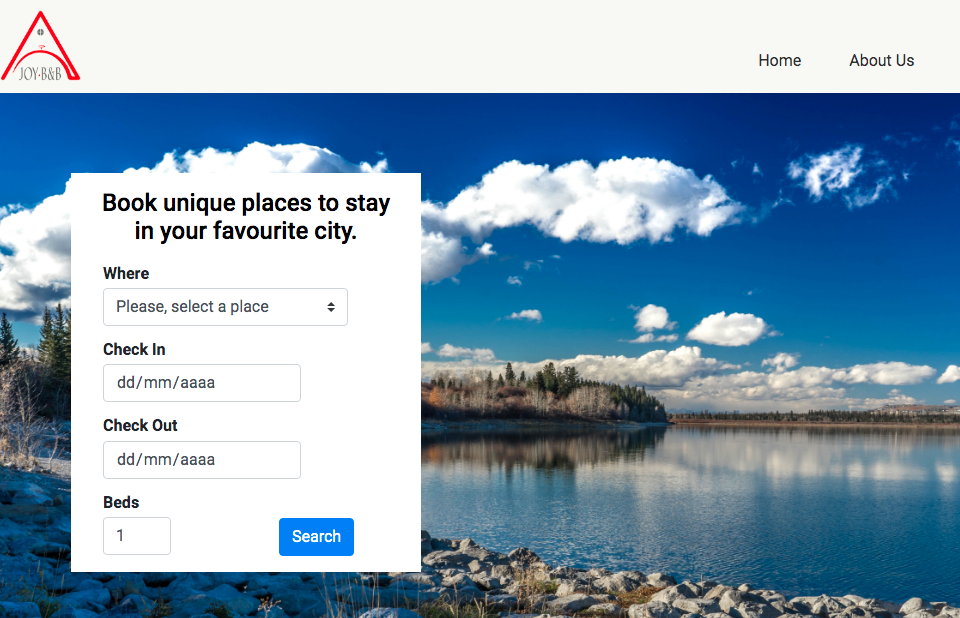
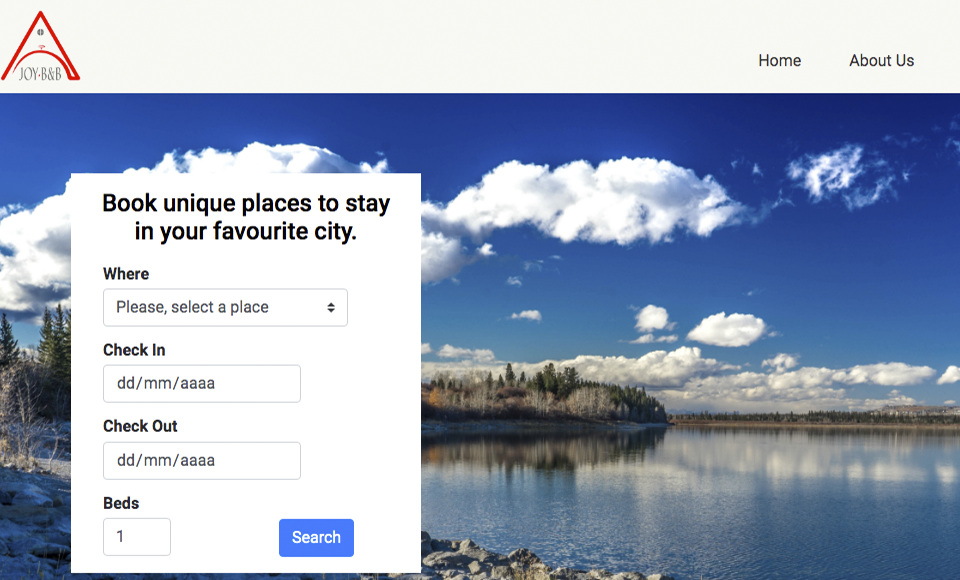
first commit

diff --git a/public/css/design.css b/public/css/design.css
@@ -10,28 +10,26 @@
 .grid {
     background: white;
     flex: none;
-    width: 19.2%;
+    width: 19.6%;
     display: flex;
     justify-content: center;
-    margin-bottom: 1%;
+    margin-bottom: 0.5%;
     color: white;
-    background-image: url(/img/texture.png);
-    background-size: 100% auto;
-    background-repeat: no-repeat;
 }
 .button {
     margin-bottom: 0;
 }
 .text {
+    display: inline-block;
+    text-align: center;
+    color: var(--txt-color);
+    align-content: center;
+}
+.text h1 {
     font-family: 'Roboto Condensed', sans-serif;
     font-size: 1.5rem;
     text-transform: uppercase;
-    text-align: center;
-    color: var(--txt-color);
-    justify-content: center;
-    align-items: center;
-    background-image: url(/img/texture.png);
-    padding: 0.7rem 0;
+    padding-top: 1.8rem;
 }
 .advert {
     background-image: url(/img/advertesing.png);
@@ -73,6 +71,7 @@
     place-self: center;
     text-align: center;
     padding: 1em;
+    text-decoration: none;
 }
 .fake-name {
     text-decoration: none;

diff --git a/public/css/resume.css b/public/css/resume.css
@@ -14,9 +14,9 @@
 }
 .contact-layout {
     background-color: var(--txt-color);
-    width: 900px;
-    height: 650px;
-    margin: 5% 15%;
+    width: 1200px;
+    height: 750px;
+    margin: 5% auto;
     display: flex;
     flex-wrap: wrap;
     justify-content: space-between;
@@ -24,10 +24,10 @@
 .contact-grid {
     background: white;
     flex: none;
-    width: 32.666%;
+    width: 33%;
     display: flex;
     justify-content: center;
-    margin-bottom: 1%;
+    margin-bottom: 0.5%;
     color: white;   
 }
 .button {

diff --git a/public/css/index.css b/public/css/index.css
@@ -9,7 +9,7 @@
     margin: 0;
 }
 .nav {
-    position: absolute;
+    position: fixed;
     top: 50px;
     right: -200px;
     width: 200px;
@@ -50,7 +50,7 @@
     border-radius: 5px;
     cursor: pointer;
     margin-left: 48%;
-    margin-top: 30px;
+    margin-top: 20px;
     color: var(--txt-color);
     opacity: 50%;
     z-index: 1000;

diff --git a/public/css/portfolio.css b/public/css/portfolio.css
@@ -46,6 +46,9 @@
 .place-img {
 max-width: 100%;
 }
+.place-picture p {
+    padding-bottom: 2rem;
+}
 .flexslider {
 position: relative;
 }
